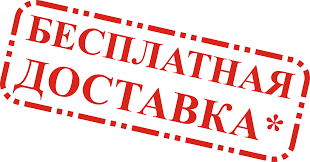
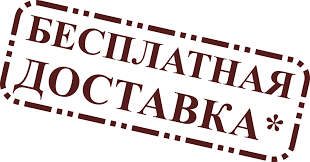
Styling

Changed region(s): [[0.029, 0.0, 1.0, 0.7407], [0.0, 0.3395, 0.9871, 1.0], [0.0, 0.2469, 0.0581, 0.3704]]

diff --git a/app/assets/stylesheets/shop.scss b/app/assets/stylesheets/shop.scss
@@ -138,8 +138,7 @@
   -webkit-transform: rotate(-3deg); /* Safari */
   transform: rotate(-3deg);
   font-size: 400%;
-  font-style: italic;
-  font-family: Droid, serif;
+  font-family: 'Indie Flower', cursive;
   padding-top: 10px;
 }
 
@@ -149,6 +148,12 @@
   background-position: calc(100%) calc(50%);
   border: solid 2px cornflowerblue;
   text-shadow: -1px 0 black, 0 1px black, 1px 0 black, 0 -1px black;
+  .right {
+    -ms-transform: rotate(-13deg); /* IE 9 */
+    -webkit-transform: rotate(-13deg); /* Safari */
+    transform: rotate(-13deg);
+    margin: 60px 0;
+  }
 }
 
 #delivery-image {
@@ -161,8 +166,12 @@
 
 .lead {
   padding-left: 60px;
-  small {
-    font-size: 100%;
+  #slogan {
+    -ms-transform: rotate(-3deg); /* IE 9 */
+    -webkit-transform: rotate(-3deg); /* Safari */
+    transform: rotate(-3deg);
+    font-size: 160%;
+    font-family: 'Lobster', cursive;
     color: lawngreen;
   }
 }
@@ -181,7 +190,7 @@ a.list-group-item {
 #vendors-container {
   background: rgba(255, 255, 255, 0.4);
   h4 {
-    color: green;
+    color: darkgoldenrod;
     text-shadow: -1px 0 black, 0 1px black, 1px 0 black, 0 -1px black;
   }
   .vendors {

diff --git a/app/assets/javascripts/components/shop/shop.jsx b/app/assets/javascripts/components/shop/shop.jsx
@@ -214,7 +214,7 @@ class Shop extends React.Component {
     <div className="container" id="main_container">
       <div className="row">
         <div id="title-row" className="col-sm-12 col-md-12 col-lg-12">
-          <h3 className="lead left"><div id="title-container"><div className="blue">Cheap</div><div className="green">Sale</div></div><small>{I18n.t('slogan')}</small></h3>
+          <h3 className="lead left"><div id="title-container"><div className="blue">Cheap</div><div className="green">Sale</div></div><div id="slogan">{I18n.t('slogan')}</div></h3>
           <div className="right" id="delivery-image"/>
         </div>
         <div className="list-group">

diff --git a/app/assets/javascripts/components/shop/shop_element.jsx b/app/assets/javascripts/components/shop/shop_element.jsx
@@ -7,7 +7,7 @@ class ShopElement extends React.Component {
     return (
       <div className="thumbnail item">
         <div className="caption">
-          <img src={this.props.item.image} alt="" height={200} width={320}/>
+          <img src={this.props.item.image} alt="" height={220} width={320}/>
           <h4>{this.props.item.title}</h4>
           <h4 className="priceh"><div className="left">{I18n.t('price')} </div><div className="right">₴{toCurrency(this.props.item.price)}</div></h4>
           <p>{I18n.t('brand')} {this.props.item.vendor}</p>
